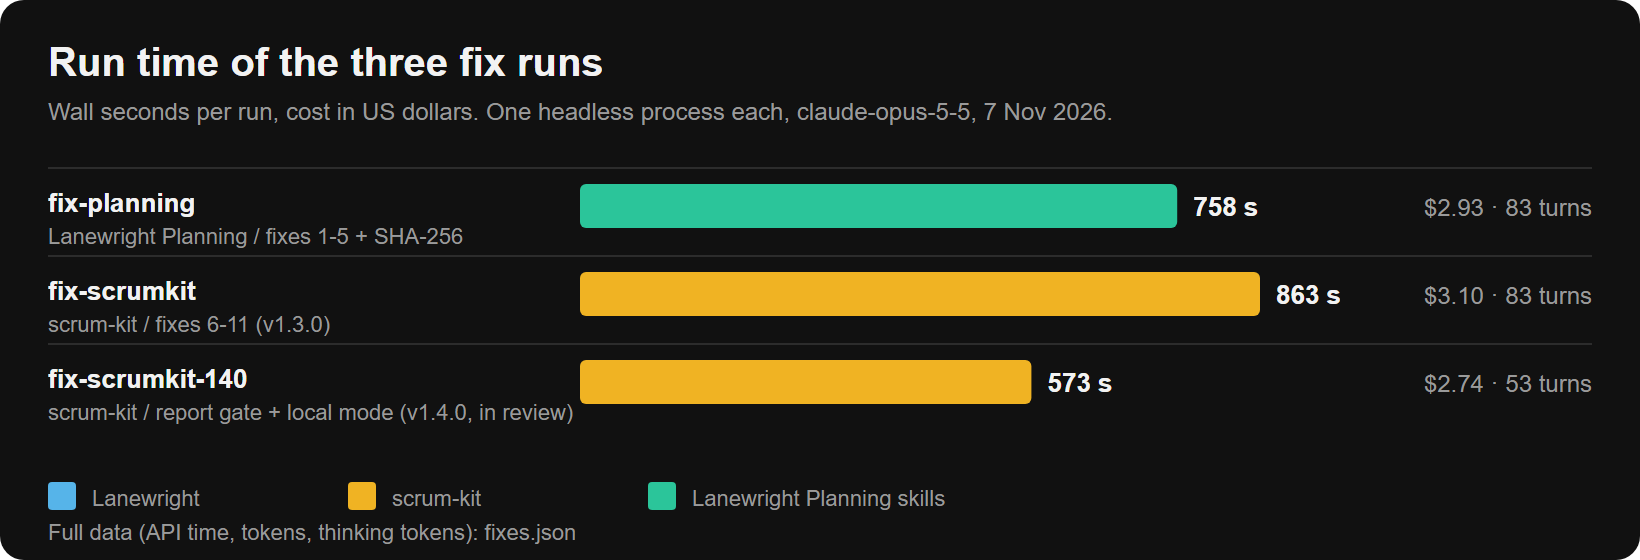
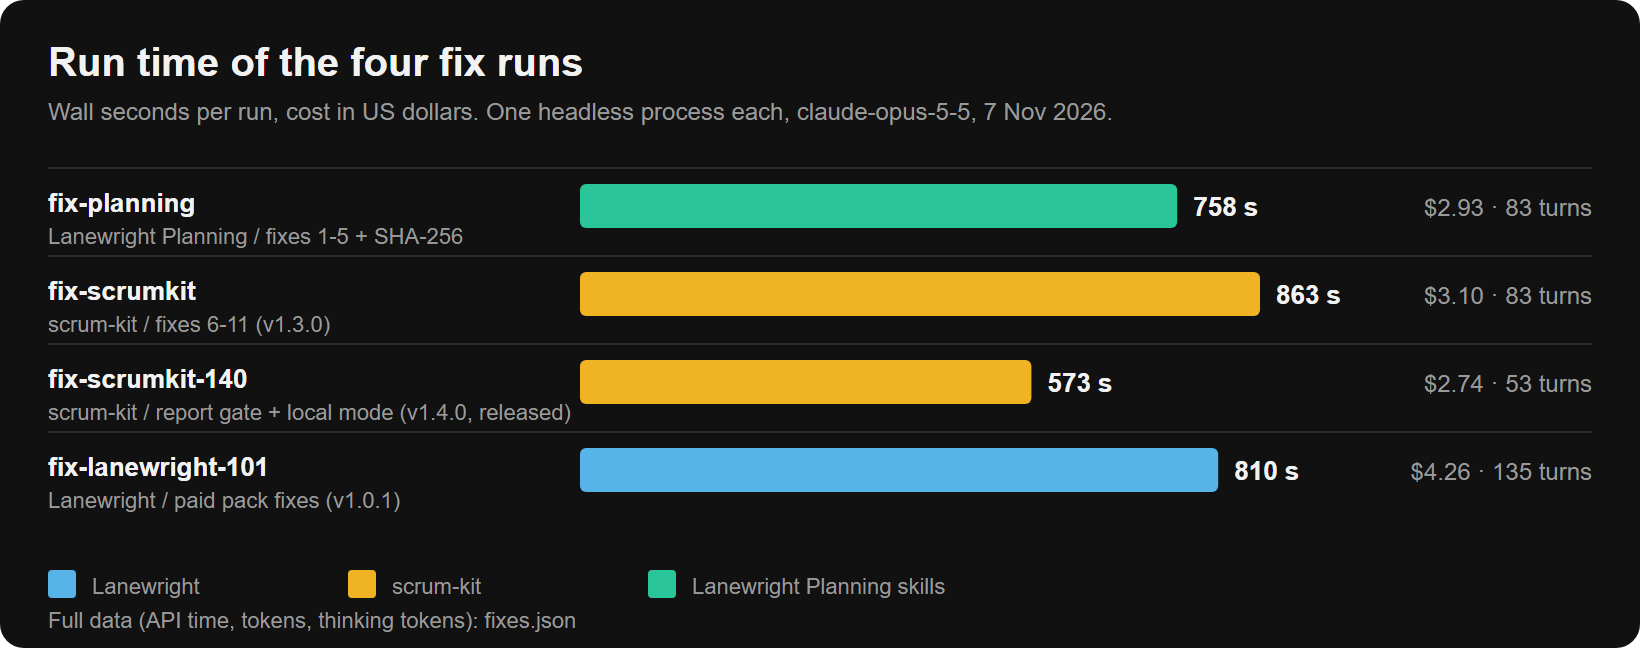
bench: run perbaikan keempat (paket berbayar 1.0.1): waktu, biaya, total uji + perbaikan

diff --git a/bench/planning-2026-11-07/charts.py b/bench/planning-2026-11-07/charts.py
@@ -7,7 +7,7 @@ from html import escape
 
 HERE = os.path.dirname(os.path.abspath(__file__))
 NAME = sys.argv[1] if len(sys.argv) > 1 else "results"  # "results" -> runs.svg, "fixes" -> fixes.svg
-TITLE = {"results": "Run time of the seven end-to-end runs", "fixes": "Run time of the three fix runs"}[NAME]
+TITLE = {"results": "Run time of the seven end-to-end runs", "fixes": "Run time of the four fix runs"}[NAME]
 runs = json.load(open(os.path.join(HERE, NAME + ".json"), encoding="utf-8"))["runs"]
 W, ROW, TOP, LEFT, RIGHT = 820, 44, 92, 290, 190
 H = TOP + ROW * len(runs) + 56

diff --git a/bench/planning-2026-11-07/README.md b/bench/planning-2026-11-07/README.md
@@ -102,12 +102,12 @@ there; this page lists the free tools' findings so they can be checked.
 
 ## After the test: the fixes
 
-The same day, the findings above were handed to three more headless runs (same setup, API key only,
+The same day, the findings above were handed to four more headless runs (same setup, API key only,
 `claude-opus-5-5`), each told to change as little as possible, add tests for every new behaviour, run
 the checks and report. The author then re-ran the tests and the free scanner on each result before
 anything was merged.
 
-![Wall time and cost of the three fix runs](fixes.svg)
+![Wall time and cost of the four fix runs](fixes.svg)
 
 (PNG: [fixes.png](fixes.png). Raw numbers: [fixes.json](fixes.json).)
 
@@ -115,17 +115,19 @@ anything was merged.
 |---|---|---|---|---|---|---|
 | fix-planning | findings 1-5 in the planning skills, plus a SHA-256 fingerprint of every checked backlog | 758 s | 679 s | 83 | $2.93 | 42 tests (5 new); released as [Lanewright Planning v1.0.1](https://github.com/huzairsaputra/lanewright-planning/releases/tag/v1.0.1) |
 | fix-scrumkit | findings 6-11 in scrum-kit | 863 s | 728 s | 83 | $3.10 | 44 tests (7 new); released as [scrum-kit v1.3.0](https://github.com/huzairsaputra/scrum-kit/releases/tag/v1.3.0) |
-| fix-scrumkit-140 | readiness-report gate (reads the fingerprint) and local mode for hotfix, release and kit-init | 573 s | 493 s | 53 | $2.74 | 48 tests (4 new); in review for scrum-kit 1.4.0 |
-| **Total** | | **2194 s** | | **219** | **$8.77** | |
+| fix-scrumkit-140 | readiness-report gate (reads the fingerprint) and local mode for hotfix, release and kit-init | 573 s | 493 s | 53 | $2.74 | 48 tests (4 new); released as [scrum-kit v1.4.0](https://github.com/huzairsaputra/scrum-kit/releases/tag/v1.4.0) |
+| fix-lanewright-101 | the paid pack's own fixes for the same classes of findings (details stay with the product) | 810 s | 720 s | 135 | $4.26 | 25 tests (9 new); private |
+| **Total** | | **3004 s** | | **354** | **$13.03** | |
 
-- **Tests plus fixes: 4530 s and $15.48** from the one-line brief to released fixes (7 test runs 2336 s
-  and $6.72; 3 fix runs 2194 s and $8.77).
+- **Tests plus fixes: 5340 s and $19.75** from the one-line brief to released fixes (7 test runs 2336 s
+  and $6.72; 4 fix runs 3004 s and $13.03).
 - **Cross-check of the gate.** The fingerprint written by the Backlog Check script and the one computed
   by the new scrum-kit script gave the same SHA-256 on a real backlog from the test, which is what lets
   scrum-kit tell a stale report from a current one.
-- **The CLI caches by itself.** In each fix run 96-97% of the input tokens were read from cache
-  (4.4 M, 5.4 M and 4.5 M cache-read tokens against about 150-160 k written), so these costs already
-  include the savings. Cache-write and cache-read tokens are recorded per run in `fixes.json`.
+- **The CLI caches by itself.** In each fix run 96-98% of the input tokens were read from cache
+  (4.4 M, 5.4 M, 4.5 M and 9.1 M cache-read tokens against about 150-200 k written), so these costs
+  already include the savings. The longest run (135 turns) cost the most because every turn re-reads
+  the growing context, which is what the cache makes cheap. Cache-write and cache-read tokens are recorded per run in `fixes.json`.
 - **Checks the author repeated, not just the agent:** unit tests, script self-tests, the build, the
   plugin validator, and a scan of the public repositories for names, paths, keys and text copied from the
   paid package (two generic `gh pr merge` and file-list lines in scrum-kit are known and harmless).

diff --git a/README.md b/README.md
@@ -91,8 +91,9 @@ with/without comparison was not fair) and the check run of the fixes
 
 **Latest test (7 Nov 2026):** a one-line brief taken through the free
 [Lanewright Planning](https://github.com/huzairsaputra/lanewright-planning) skills and into a sprint dry run
-with Lanewright and with scrum-kit. Seven runs, 2336 s and $6.72 in total, followed by three fix runs
-(2194 s, $8.77) that turned the findings into released versions of the free tools. Every run's time and
+with Lanewright and with scrum-kit. Seven runs, 2336 s and $6.72 in total, followed by four fix runs
+(3004 s, $13.03) that turned the findings into released versions of the free tools and an update of
+the paid pack. Every run's time and
 cost is recorded: [`bench/planning-2026-11-07/`](bench/planning-2026-11-07/README.md).
 
 **Limits.** Six runs per side on one small repository, on Windows: read the numbers as a direction,
